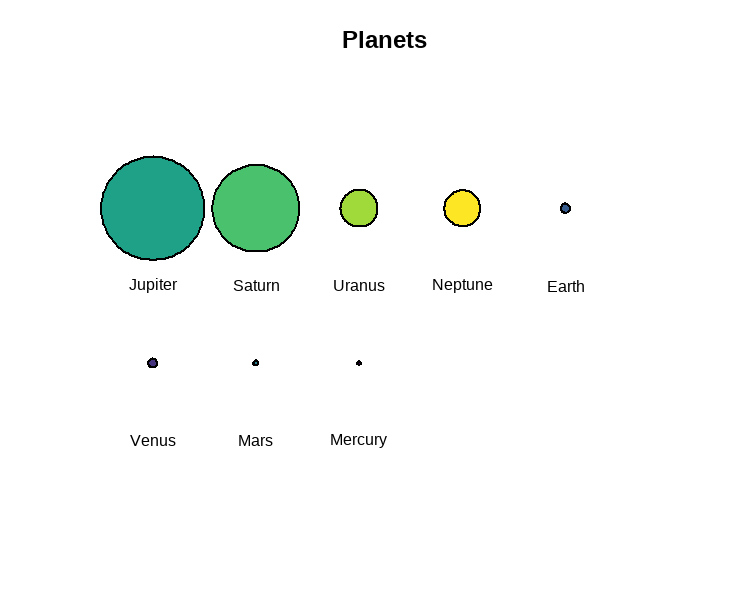
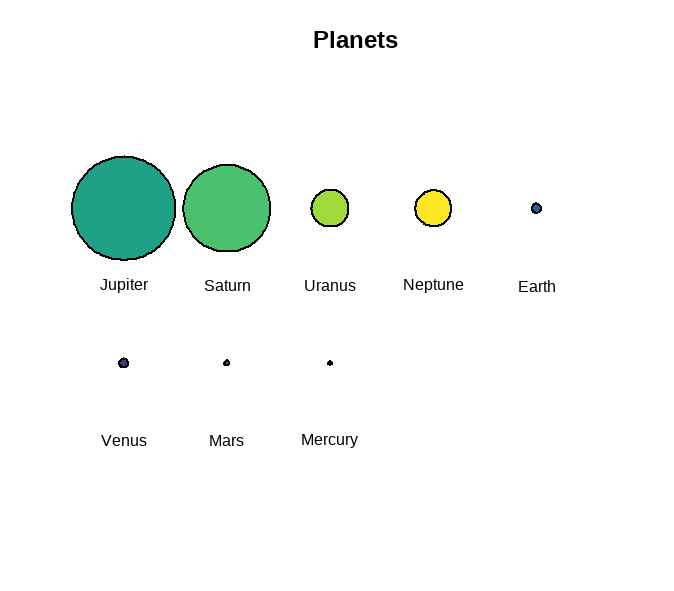
updated readme

diff --git a/README.md b/README.md
@@ -28,8 +28,15 @@ diameter = c(4879.4,12103.6,12756.3,6792.4,142984,120536,51118,49528)
 circlesplot(cp_vals=diameter, cp_text=planets, cp_max=4L, cp_title="Planets", cp_color=viridis(8))
 ```
 
-<img src="man/figures/readme_example.png" alt="Plot of eight planets in a row. Their proportions are correct."/>
+<div style="display: flex;">
+    <img src="man/figures/readme_example.png" alt="Image 1" style="flex: 20%; width: 20%; height: auto; padding: 5px;">
+    <img src="man/figures/readme_example (3).png" alt="Image 2" style="flex: 20%; width: 20%; height: auto; padding: 5px;">
+</div>
 
+<div style="display: flex;">
+    <p style="flex: 20%; width: 20%; height: auto; padding: 5px;">png-export</p>
+    <p style="flex: 20%; width: 20%; height: auto; padding: 5px;">pdf-export</p>
+</div>
 
 ## License
 
